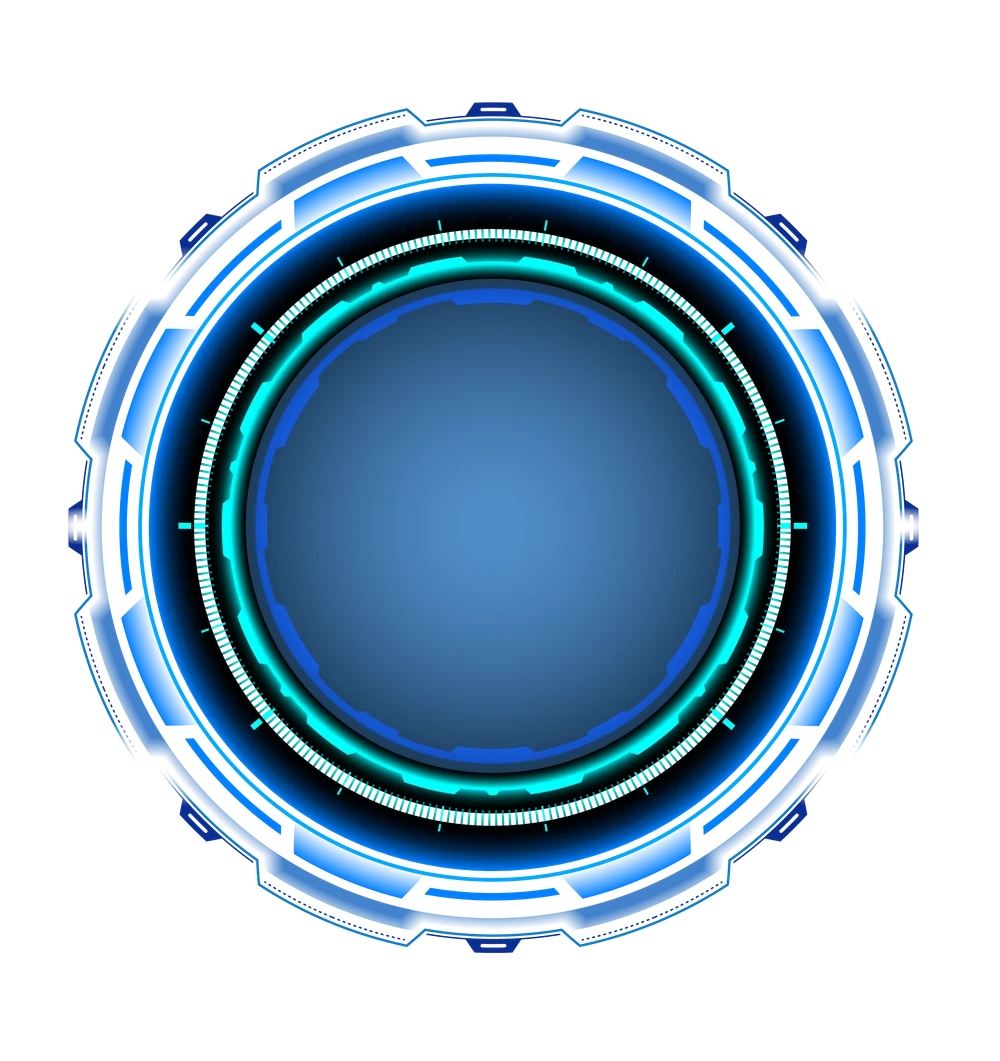
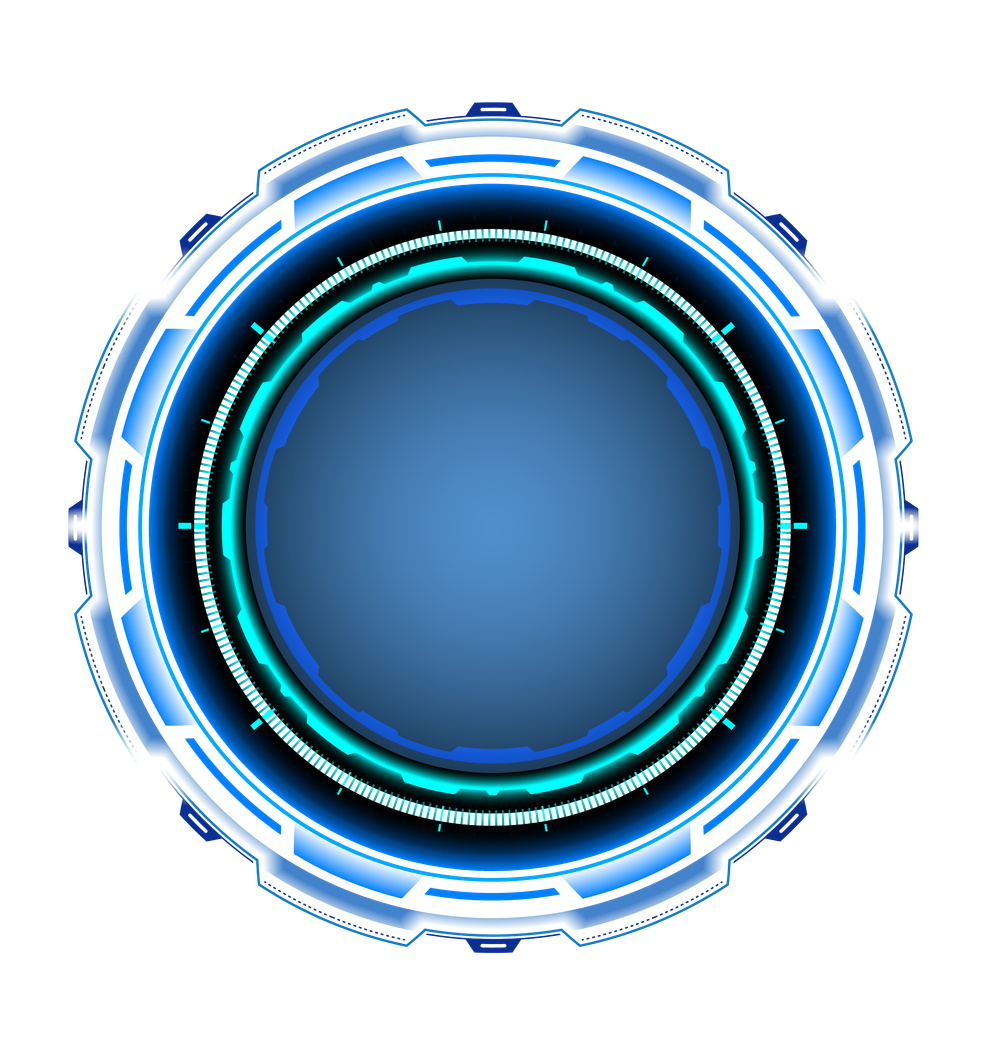
style: LeOS core copied from Figma with exact values (gradient, border, shadows, layer offsets, lossless gear image)

diff --git a/src/components/landing/HeroOrbit.tsx b/src/components/landing/HeroOrbit.tsx
@@ -306,39 +306,39 @@ export default function HeroOrbit({ sunAlt, caption }: { sunAlt: string; caption
         ))}
 
         {/* Sun: Figma LeOS core; the gear ring and the mark keep their turning speeds */}
-        <div className="pointer-events-none absolute left-1/2 top-1/2 size-[34%] -translate-x-1/2 -translate-y-1/2">
-        {/* LeOS core from Figma. Its diameter (65.6% of this box) equals the visible ring it replaces, so the size is unchanged. */}
-        <div
-          className="pointer-events-none absolute overflow-hidden rounded-full"
-          style={{
-            left: "17.2%",
-            top: "17.2%",
-            width: "65.6%",
-            height: "65.6%",
-            border: "2px solid #2a9fff",
-            background: "radial-gradient(circle at 50% 50%, #1c4d88 0%, #133874 46%, #0c275e 78%, #071a49 100%)",
-            boxShadow: "0 12.6px 31.6px -9.5px rgba(6,21,62,0.34), 0 0 34.8px rgba(42,159,255,0.26)",
-          }}
-        >
-          <div className="absolute" style={{ inset: "2.27%" }} role="img" aria-label={sunAlt}>
-            <div className="absolute aspect-square" style={{ left: "50%", top: "50%", width: "119.2%", marginLeft: "-59.6%", marginTop: "-59.6%", animation: `orbit-spin ${RING_SECONDS}s linear infinite reverse`, animationPlayState: play }}>
-              <div className="absolute left-1/2 top-1/2 aspect-square overflow-hidden" style={{ width: "83.9%", transform: "translate(-50%, -50%) rotate(-12.45deg)" }}>
-                <img src="/images/orbit/core-gear.webp" alt="" className="absolute max-w-none" style={{ height: "115.65%", left: "-3.711%", top: "-7.375%", width: "109.01%", maxWidth: "none" }} />
+        <div className="pointer-events-none absolute left-1/2 top-1/2 size-[34%] -translate-x-1/2 -translate-y-1/2" style={{ containerType: "inline-size" }}>
+          {/* LeOS core, values copied from the Figma node (330px core; pixel values are converted to cqw so they scale with it).
+              Core diameter is 65.6% of this box, the size of the ring it replaces. */}
+          <div
+            className="pointer-events-none absolute overflow-hidden rounded-full"
+            style={{
+              left: "17.2%",
+              top: "17.2%",
+              width: "65.6%",
+              height: "65.6%",
+              border: "0.4719cqw solid #2a9fff",
+              background: "radial-gradient(ellipse 64.103% 64.103% at 51.282% 51.282%, #1c4d88 0%, #133874 46%, #0c275e 78%, #071a49 100%)",
+              boxShadow: "0 2.5173cqw 6.2932cqw -1.8879cqw rgba(6,21,62,0.34), 0 0 6.9224cqw rgba(42,159,255,0.26)",
+            }}
+          >
+            <div className="absolute aspect-square" style={{ left: "1.575%", top: "1.575%", width: "96.85%" }} role="img" aria-label={sunAlt}>
+              <div className="absolute aspect-square" style={{ left: "50%", top: "50%", width: "119.2%", marginLeft: "-59.6%", marginTop: "-59.6%", animation: `orbit-spin ${RING_SECONDS}s linear infinite reverse`, animationPlayState: play }}>
+                <div className="absolute left-1/2 top-1/2 aspect-square overflow-hidden" style={{ width: "83.89%", transform: "translate(-50%, -50%) rotate(-12.45deg)" }}>
+                  <img src="/images/orbit/core-gear.webp" alt="" className="absolute max-w-none" style={{ height: "115.65%", left: "-3.89%", top: "-7.82%", width: "109.01%", maxWidth: "none" }} />
+                </div>
+              </div>
+              <img src="/images/orbit/core-disc.svg" alt="" className="absolute block max-w-none" style={{ left: "22.616%", top: "22.438%", width: "53.887%", height: "53.887%", maxWidth: "none" }} />
+              <div className="absolute inset-0" style={{ animation: `orbit-spin ${SUN_SECONDS}s linear infinite`, animationPlayState: play }}>
+                <div className="absolute" style={{ left: "23.2%", right: "22.1%", top: "22.27%", bottom: "22.36%" }}>
+                  <img src="/images/orbit/core-arms.svg" alt="" className="absolute left-1/2 top-1/2 block max-w-none" style={{ width: "69.2%", height: "73.87%", maxWidth: "none", transform: "translate(-50%, -50%) rotate(36.19deg)" }} />
+                </div>
+                <div className="absolute" style={{ left: "40.49%", right: "39.67%", top: "40.36%", bottom: "40.2%" }}>
+                  <img src="/images/orbit/core-hex.svg" alt="" className="absolute left-1/2 top-1/2 block max-w-none" style={{ width: "75.57%", height: "67.45%", maxWidth: "none", transform: "translate(-50%, -50%) rotate(36.19deg)" }} />
+                </div>
               </div>
             </div>
-            <img src="/images/orbit/core-disc.svg" alt="" className="absolute block max-w-none" style={{ left: "23.055%", top: "23.055%", width: "53.89%", height: "53.89%", maxWidth: "none" }} />
-            <div className="absolute inset-0" style={{ animation: `orbit-spin ${SUN_SECONDS}s linear infinite`, animationPlayState: play }}>
-              <div className="absolute" style={{ left: "22.65%", right: "22.65%", top: "22.315%", bottom: "22.315%" }}>
-                <img src="/images/orbit/core-arms.svg" alt="" className="absolute left-1/2 top-1/2 block max-w-none" style={{ width: "69.2%", height: "73.9%", maxWidth: "none", transform: "translate(-50%, -50%) rotate(36.19deg)" }} />
-              </div>
-              <div className="absolute" style={{ left: "40.08%", right: "40.08%", top: "40.28%", bottom: "40.28%" }}>
-                <img src="/images/orbit/core-hex.svg" alt="" className="absolute left-1/2 top-1/2 block max-w-none" style={{ width: "75.5%", height: "67.5%", maxWidth: "none", transform: "translate(-50%, -50%) rotate(36.19deg)" }} />
-              </div>
-            </div>
+            <div className="absolute inset-0 rounded-full" style={{ boxShadow: "inset 0 0 7.5518cqw rgba(118,198,255,0.2)" }} />
           </div>
-          <div className="absolute inset-0 rounded-full" style={{ boxShadow: "inset 0 0 38px rgba(118,198,255,0.2)" }} />
-        </div>
-
         </div>
 
         {/* Inner orbit (applications): counter-clockwise and slower. The layers ignore the pointer so they
